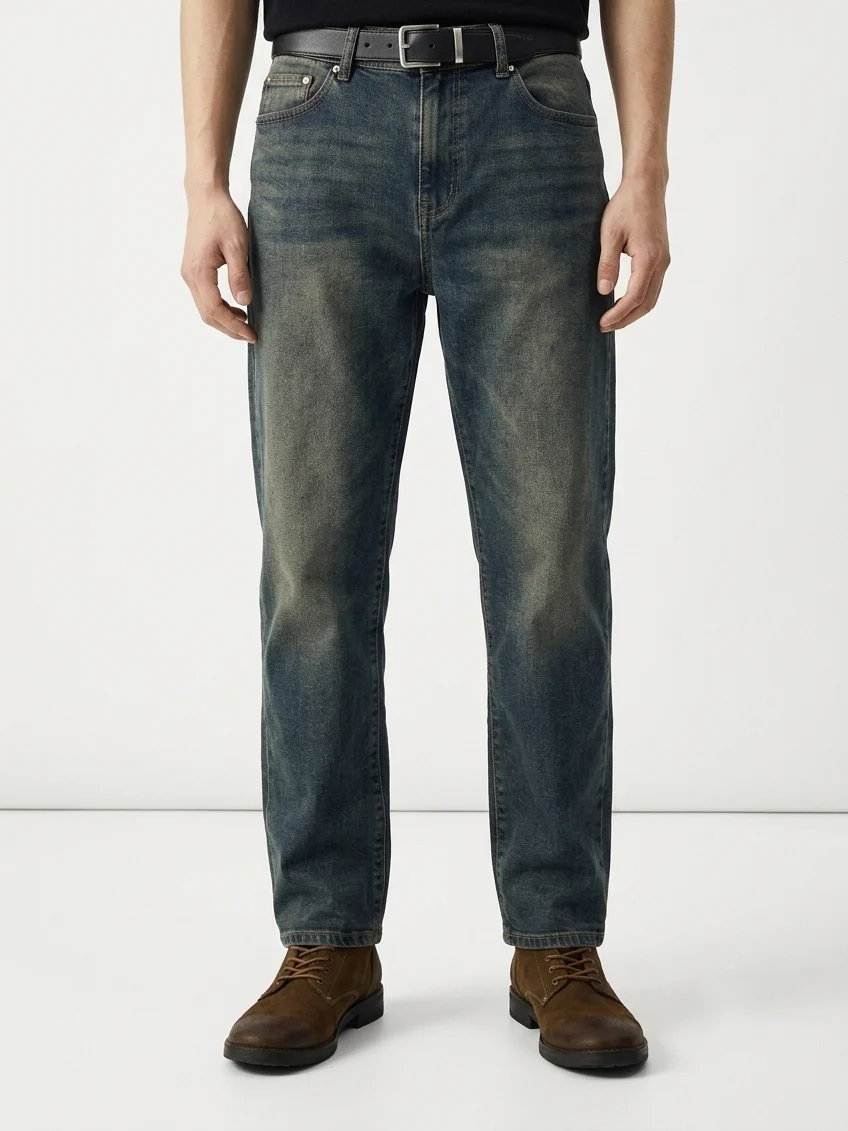
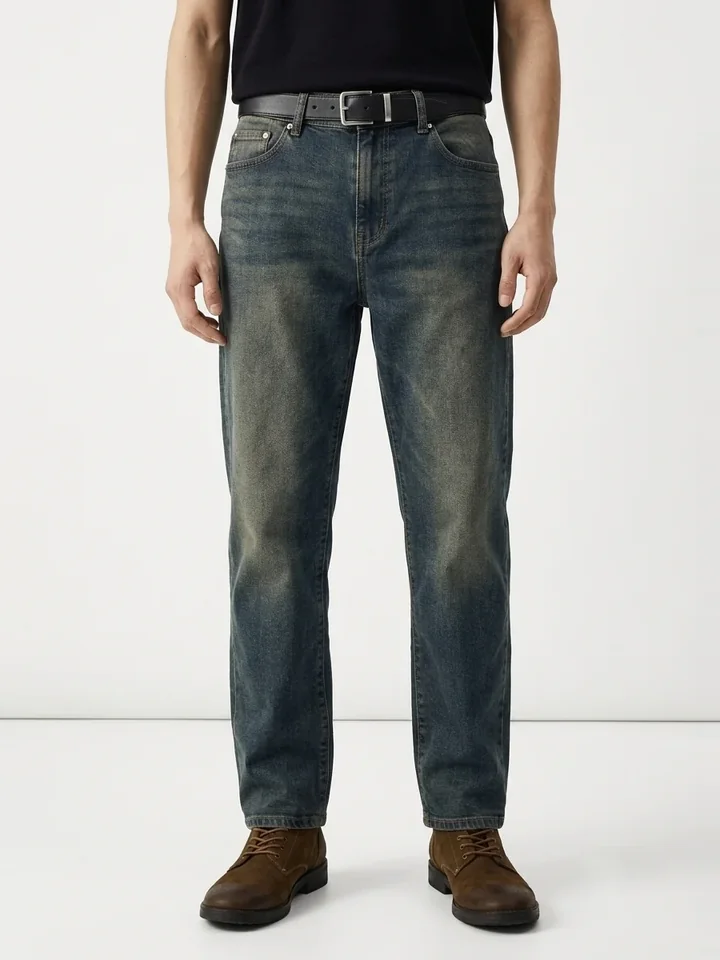
스트레이트핏 데님 팬츠 Dark Blue 썸네일 위치 조정
Claude-Session: https://claude.ai/code/session_01KQMEfT2ai38yMadH4zStAs

Changed region(s): [[0.2139, 0.0, 0.7944, 1.0], [0.0, 0.6875, 0.0611, 0.7188], [0.5806, 0.3438, 0.6111, 0.375]]

diff --git a/js/ai_works.js b/js/ai_works.js
@@ -477,7 +477,7 @@ window.AI_WORKS = [
     product: '스트레이트핏 데님 팬츠',
     title: '스트레이트핏 데님 팬츠 Dark Blue',
     thumb: 'img/ai/straight/darkblue-thumb.webp',
-    thumbPos: '50% 85%',
+    thumbPos: '50% 50%',
     models: [
       'img/ai/straight/darkblue-1.webp',
       'img/ai/straight/darkblue-2.webp',
